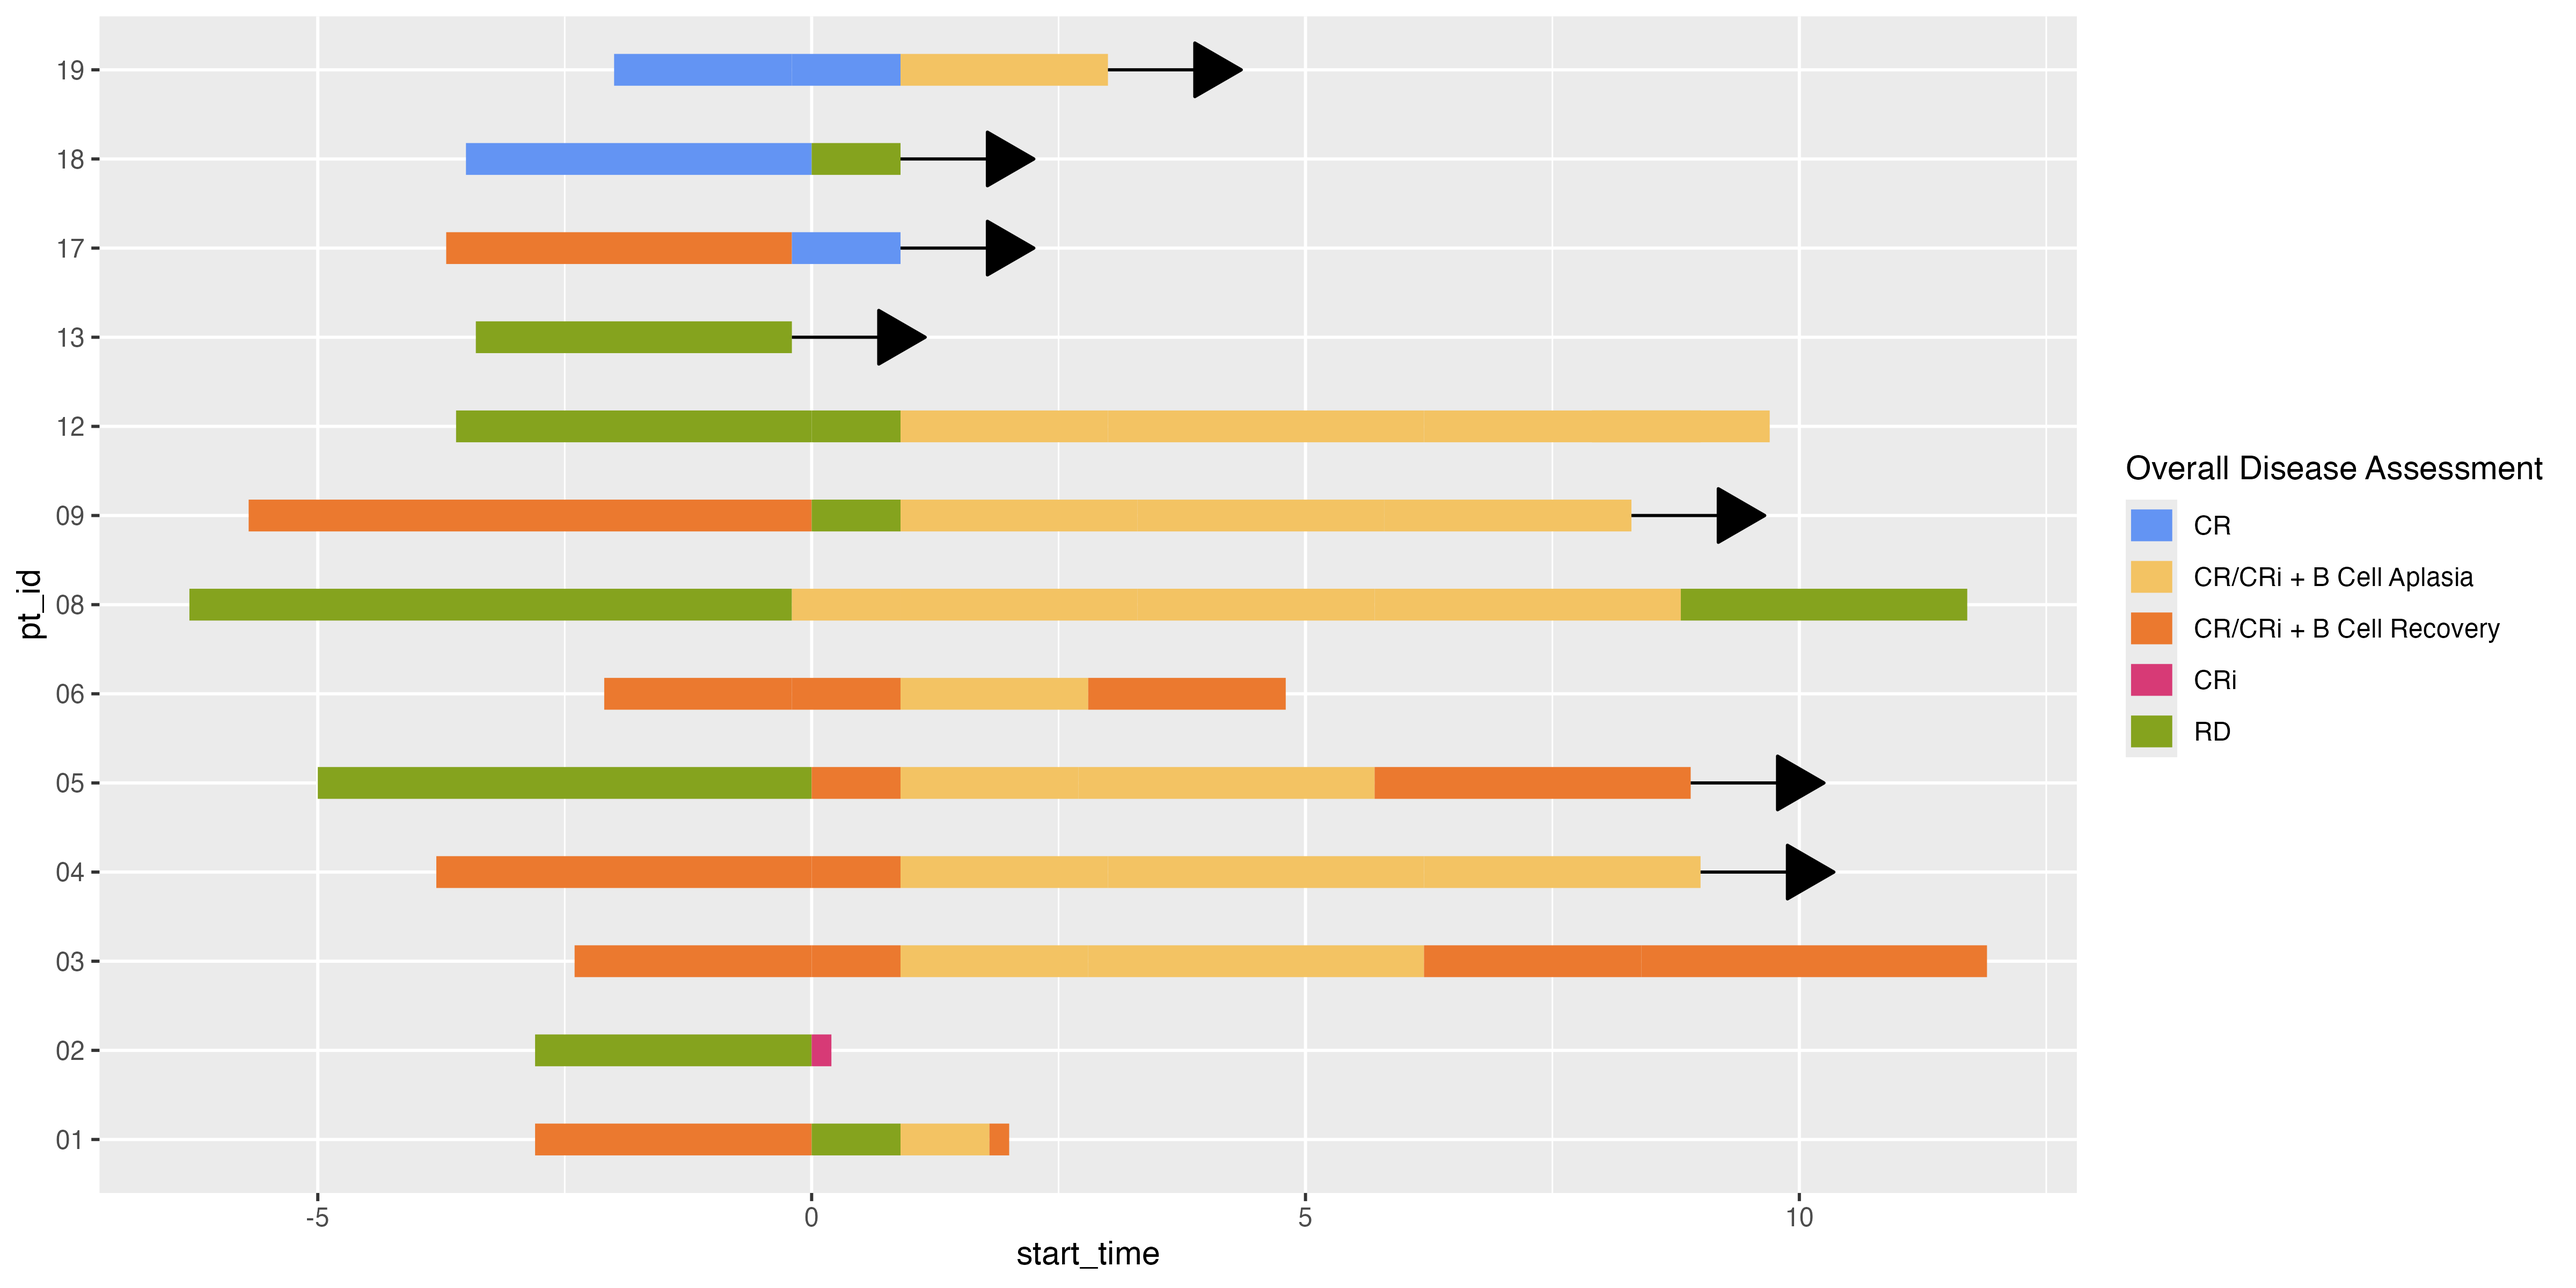
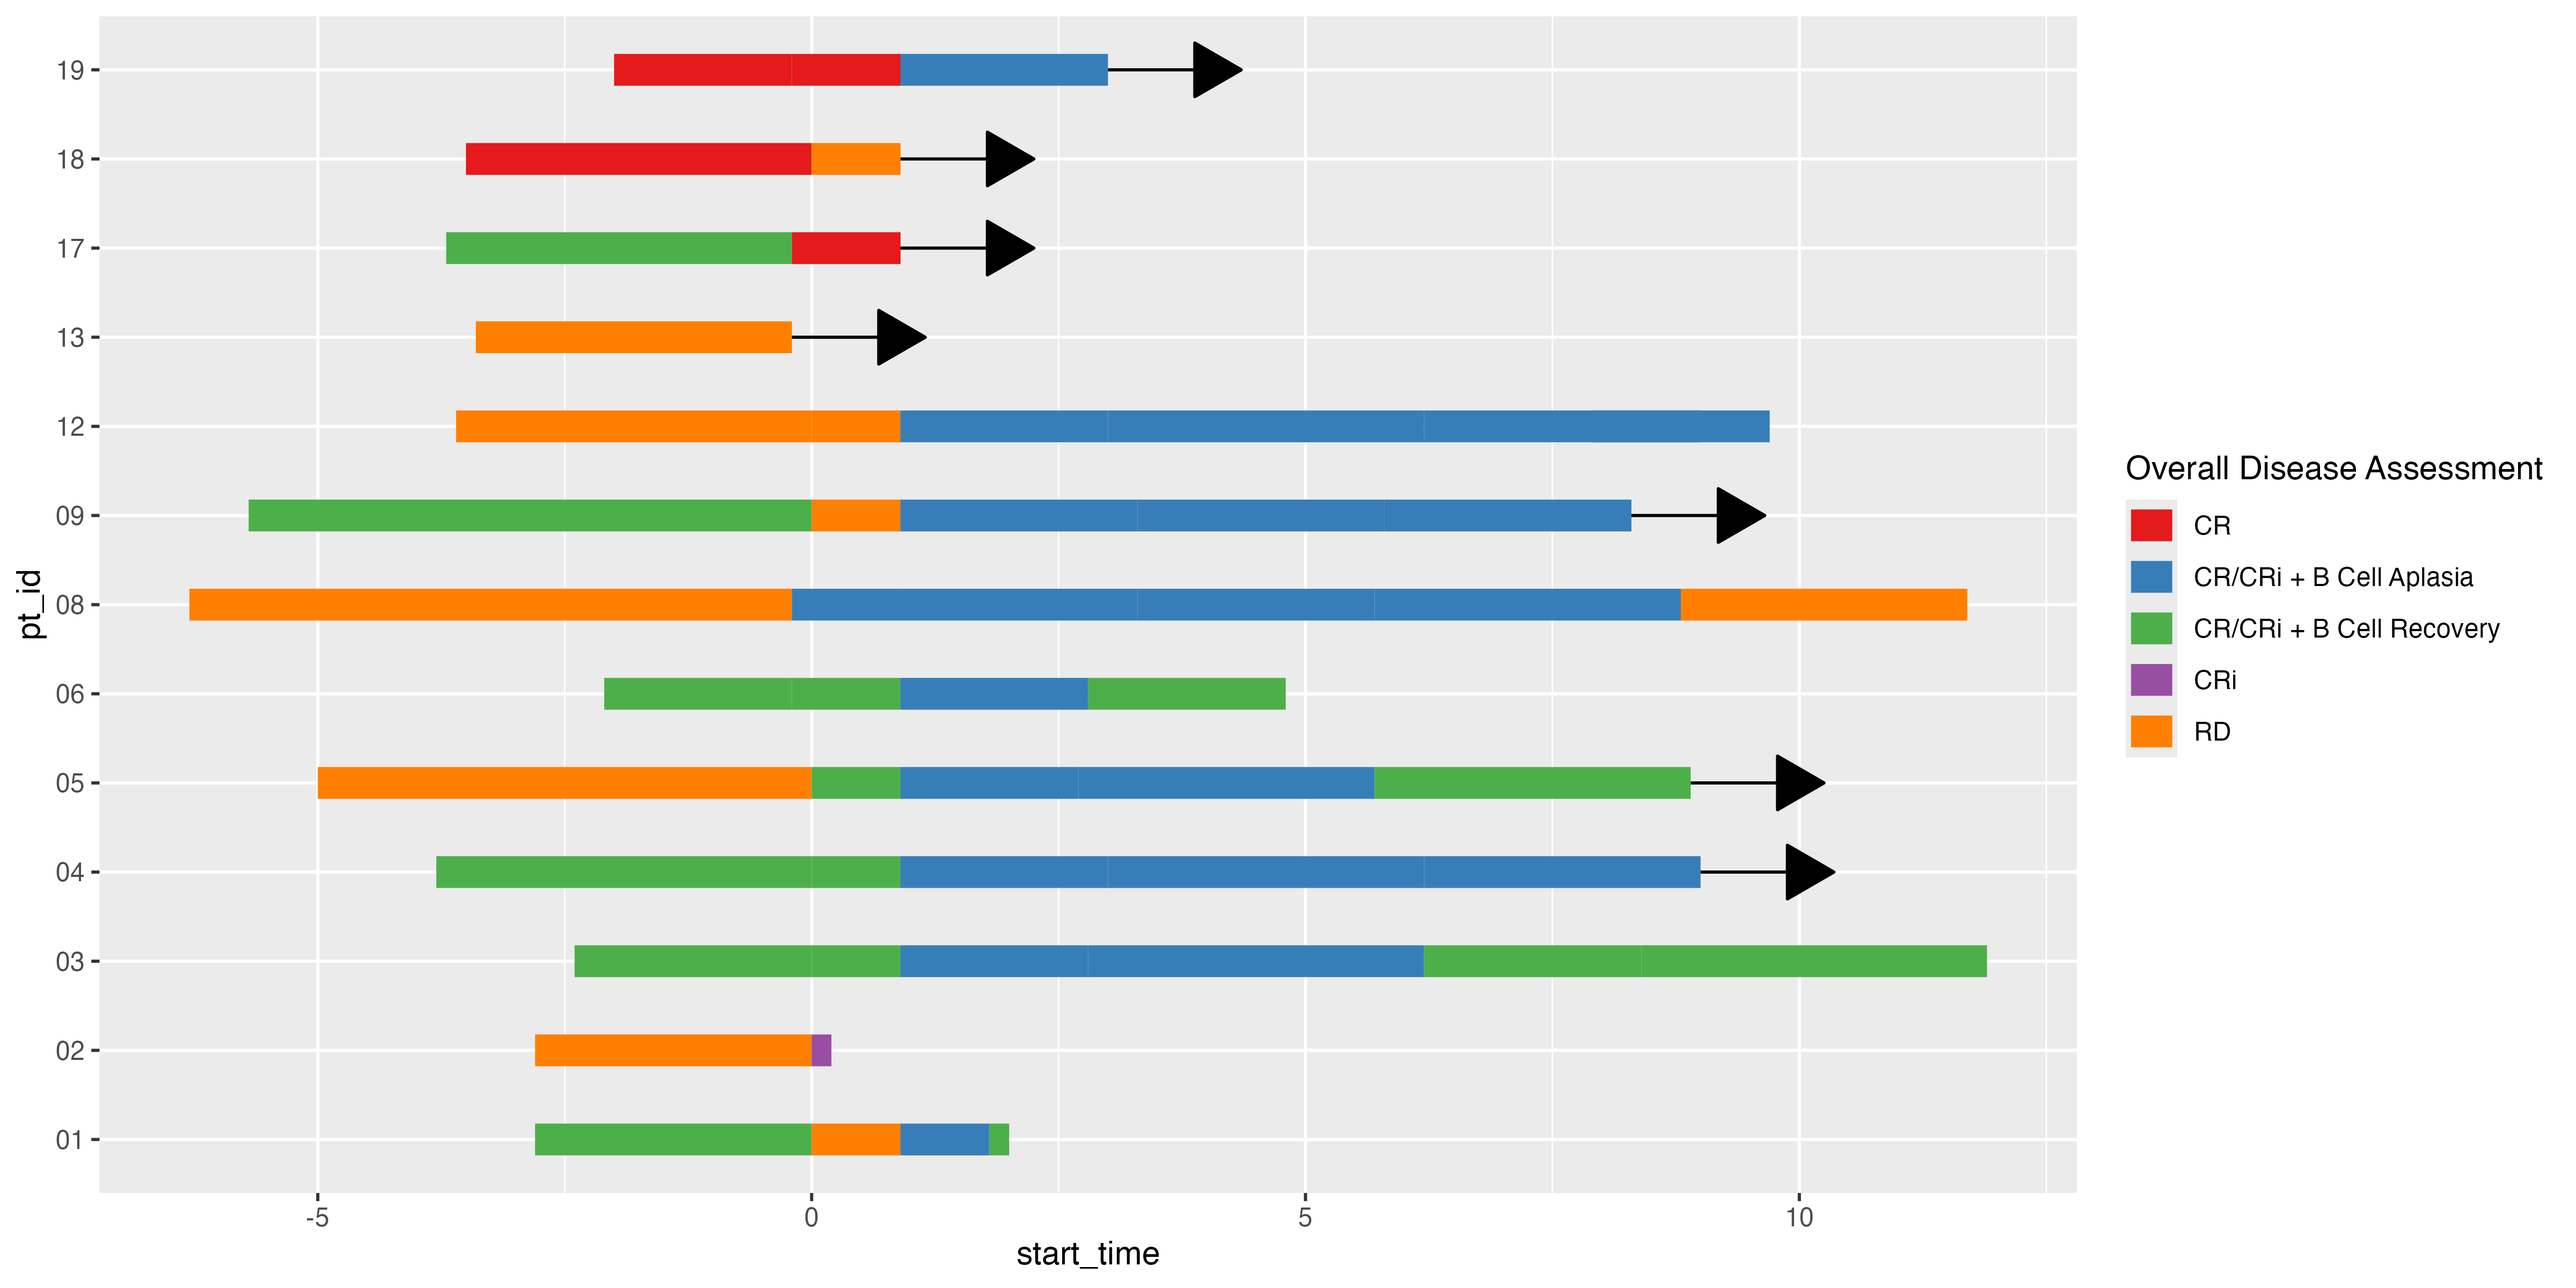
Update README with scale_color_brewer

diff --git a/README.md b/README.md
@@ -57,9 +57,9 @@ p <- patient_data |>
     mapping = aes(x = start_time, xend = end_time, y = pt_id),
     arrow = "status"
   ) +
-  scale_color_manual(
+  scale_color_brewer(
     name = "Overall Disease Assessment",
-    values = c("#6394F3", "#F3C363", "#EB792F", "#d73a76", "#85a31e")
+    palette = "Set1"
   )
 
 p
@@ -94,7 +94,7 @@ last finishing touch with `theme_ggswim()`:
 
 ``` r
 p +
-  scale_color_manual(name = "Markers", values = c(NA, NA, "green", NA, "red")) +
+  scale_color_brewer(name = "Markers", palette = "Set2") +
   labs(title = "My Swimmer Plot") +
   xlab("Time Since Infusion (Months)") + ylab("Patient ID") +
   theme_ggswim()
